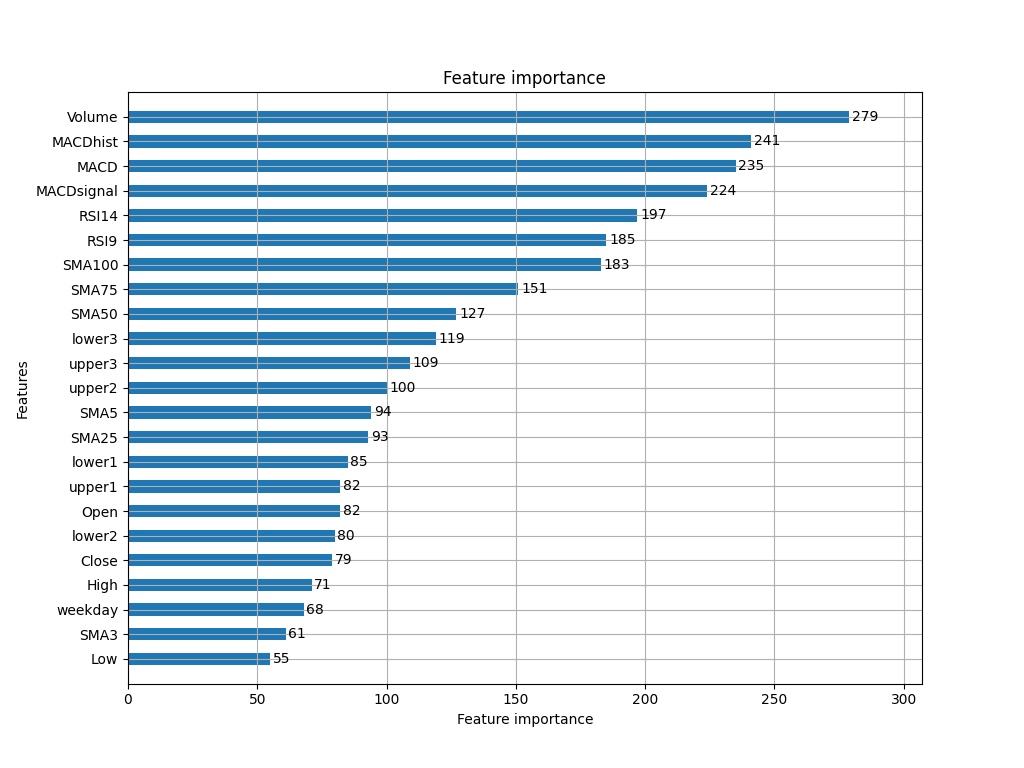
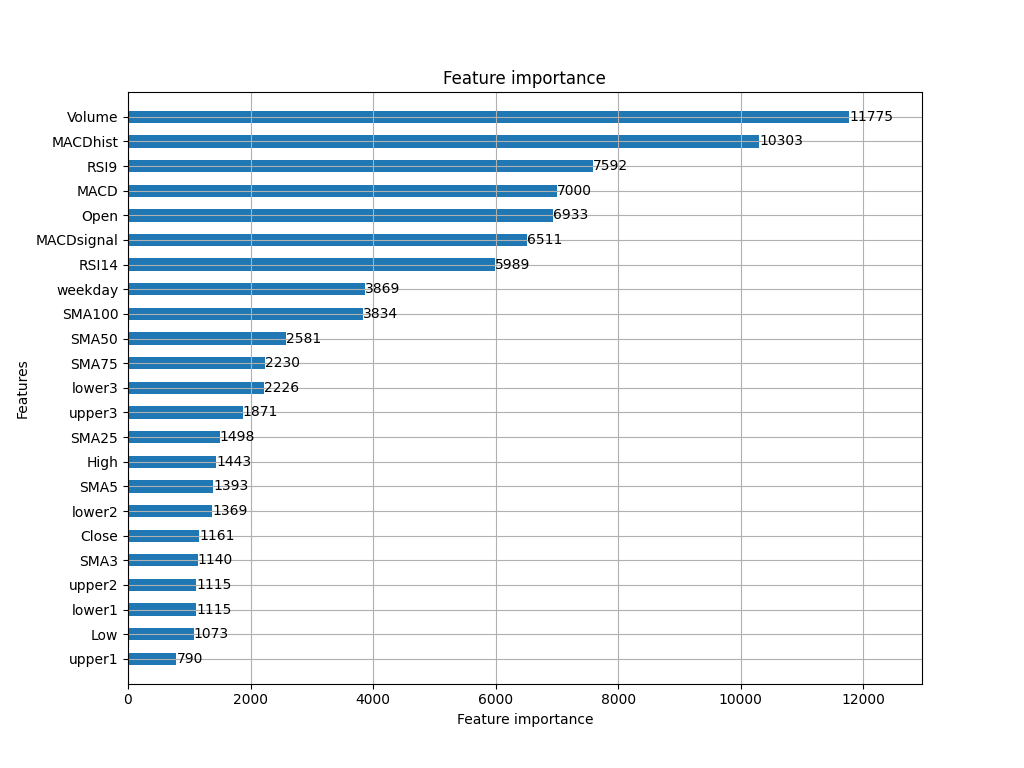
Make use of regression to objective .

diff --git a/myprogs/project02/part02/ex03.py b/myprogs/project02/part02/ex03.py
@@ -52,28 +52,28 @@ def main():
 
     # 目的変数の作成
     # 3日後の株価の変化量の計算
-    df["variation"] = df["Open"].diff(-3).shift(-1) * -1
+    df["target"] = df["Open"].diff(-3).shift(-1) * -1
 
     # 不要インデックスの削除
     df = df.dropna(subset=[ "SMA3", "SMA5", "SMA25", "SMA50", "SMA75", "SMA100",
                             "upper1", "lower1", "upper2", "lower2", "upper3", "lower3",
                             "MACD", "MACDsignal", "MACDhist",
                             "RSI9", "RSI14",
-                            "variation"])
+                            "target"])
 
-    # 目的変数の計算
-    df["target"] = (df["variation"] >= 0)
+    # 目的変数の型変換
+    df["target"] = df["target"].astype(int)
 
     # 不要カラムの削除
-    df = df.drop(["Dividends", "Stock Splits", "variation"], axis=1)
+    df = df.drop(["Dividends", "Stock Splits"], axis=1)
 
     # 欠損値の補完
     df.ffill()
 
     # 学習データ、テストデータの作成
     # train 学習時データ vaild 学習時の検証データ test 学習後のテストデータ
-    df_y = df["target"]
     df_X = df.drop(["target"], axis=1)
+    df_y = np.array(df["target"])
     X_train, X_vaild, y_train, y_vaild = train_test_split(df_X, df_y, train_size=0.8, random_state=0)
     print("X_train:{}".format(X_train.shape))
     print("y_train:{}".format(y_train.shape))
@@ -88,6 +88,7 @@ def main():
     
     # 正解率の確認
     y_pred = model.predict(X_vaild)
+    print(y_pred)
     accuracy = sum(y_vaild & y_pred > 0) / len(y_vaild)
     print("Testing Accuracy{}".format(accuracy))
 
@@ -96,10 +97,9 @@ def main():
     test = test[test.index >= datetime.datetime(*[2018, 2, 26])]
     test = test[test.index <= datetime.datetime(*[2019, 12, 26])]
     test["isbuy"] = (model.predict(test))
-    test["variation"] = test["Open"].diff(-3).shift(-1) * -1
+    test["target"] = test["Open"].diff(-3).shift(-1) * -1
     test = test.sort_index()
-    test["assets"] = (test["variation"]*test["isbuy"]).cumsum()
-    print(test)
+    test["assets"] = (test["target"]*test["isbuy"]).cumsum()
     mylib.plot_chart({"assets": test["assets"]})
 
 

diff --git a/myprogs/project02/part02/ex02.py b/myprogs/project02/part02/ex02.py
@@ -51,20 +51,20 @@ def main():
 
     # 目的変数の作成
     # 3日後の株価の変化量の計算
-    df["variation"] = df["Open"].diff(-3).shift(-1) * -1
+    df["target"] = df["Open"].diff(-3).shift(-1) * -1
 
     # 不要インデックスの削除
     df = df.dropna(subset=[ "SMA3", "SMA5", "SMA25", "SMA50", "SMA75", "SMA100",
                             "upper1", "lower1", "upper2", "lower2", "upper3", "lower3",
                             "MACD", "MACDsignal", "MACDhist",
                             "RSI9", "RSI14",
-                            "variation"])
+                            "target"])
 
-    # 目的変数の計算
-    df["target"] = (df["variation"] >= 0)
+    # 目的変数の型変換
+    df["target"] = df["target"].astype(int)
 
     # 不要カラムの削除
-    df = df.drop(["Dividends", "Stock Splits", "variation"], axis=1)
+    df = df.drop(["Dividends", "Stock Splits"], axis=1)
 
     # 欠損値の補完
     df.ffill()
